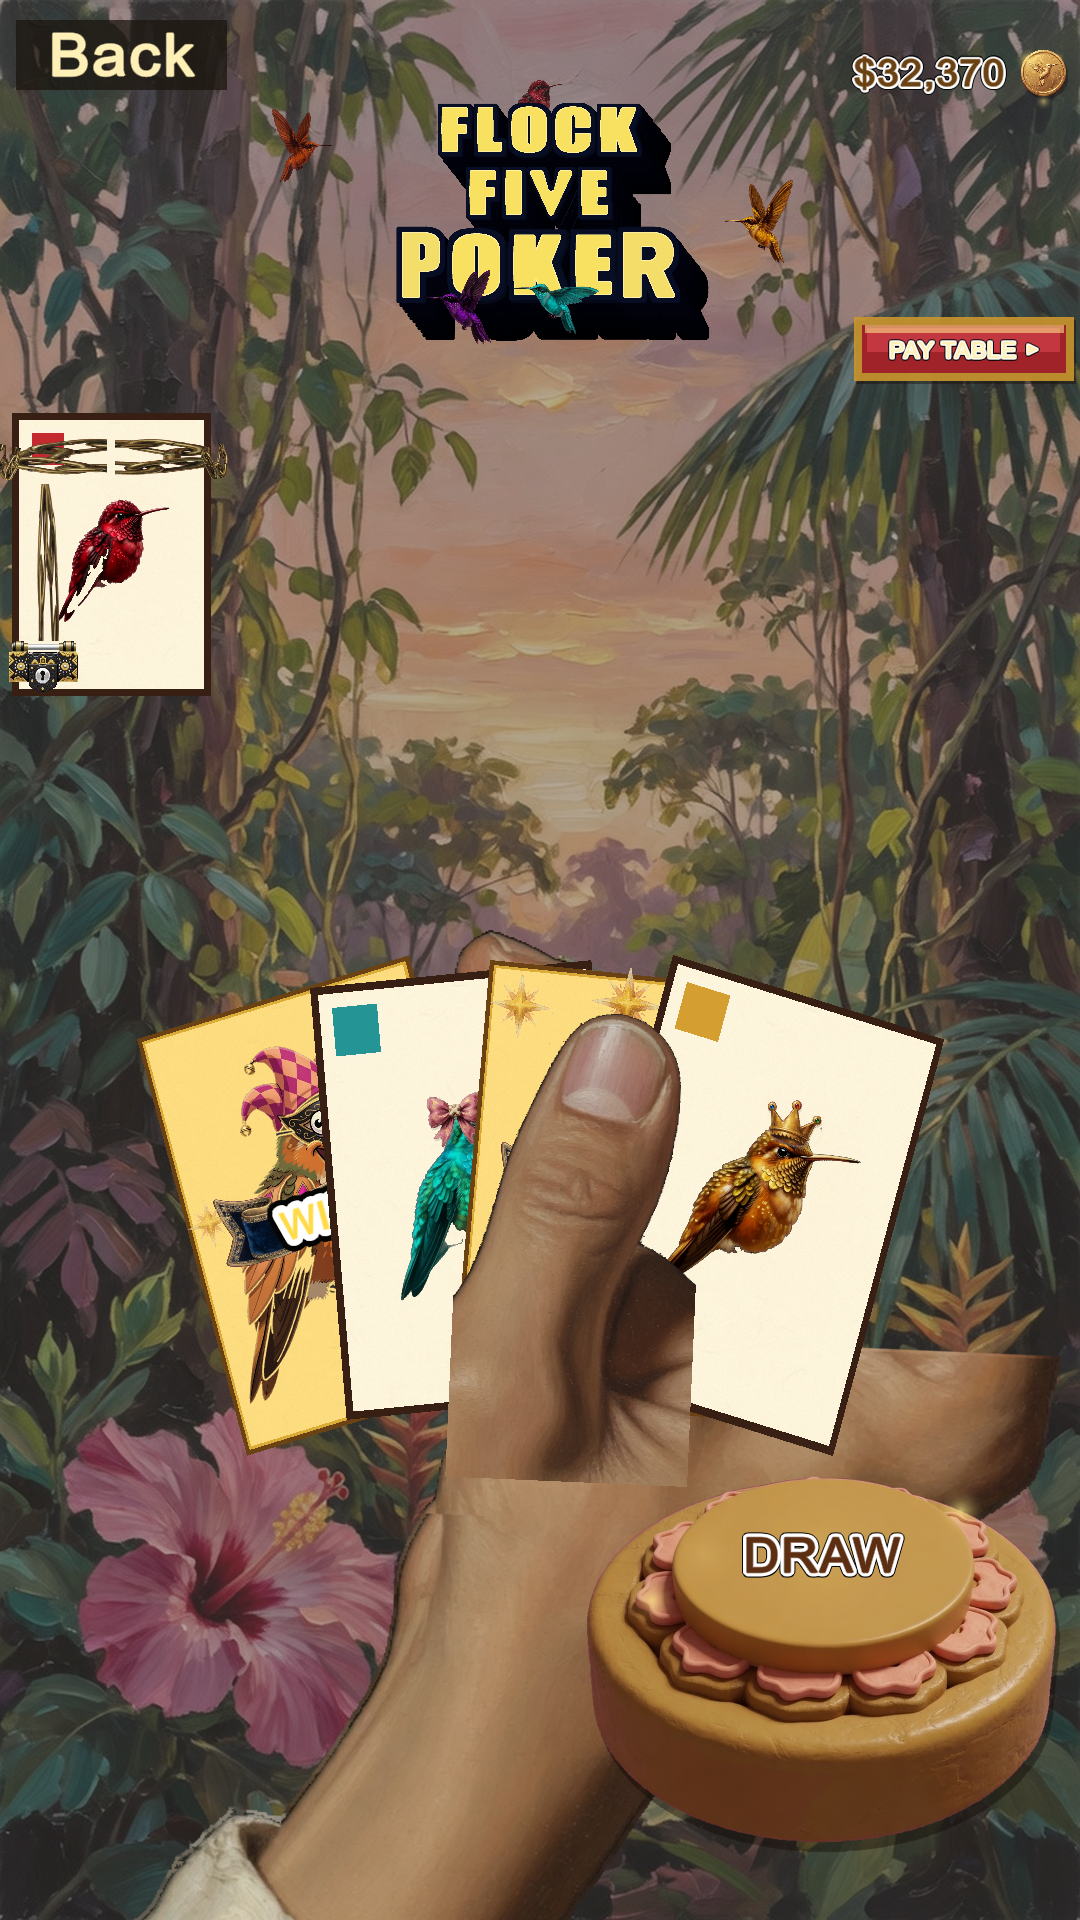
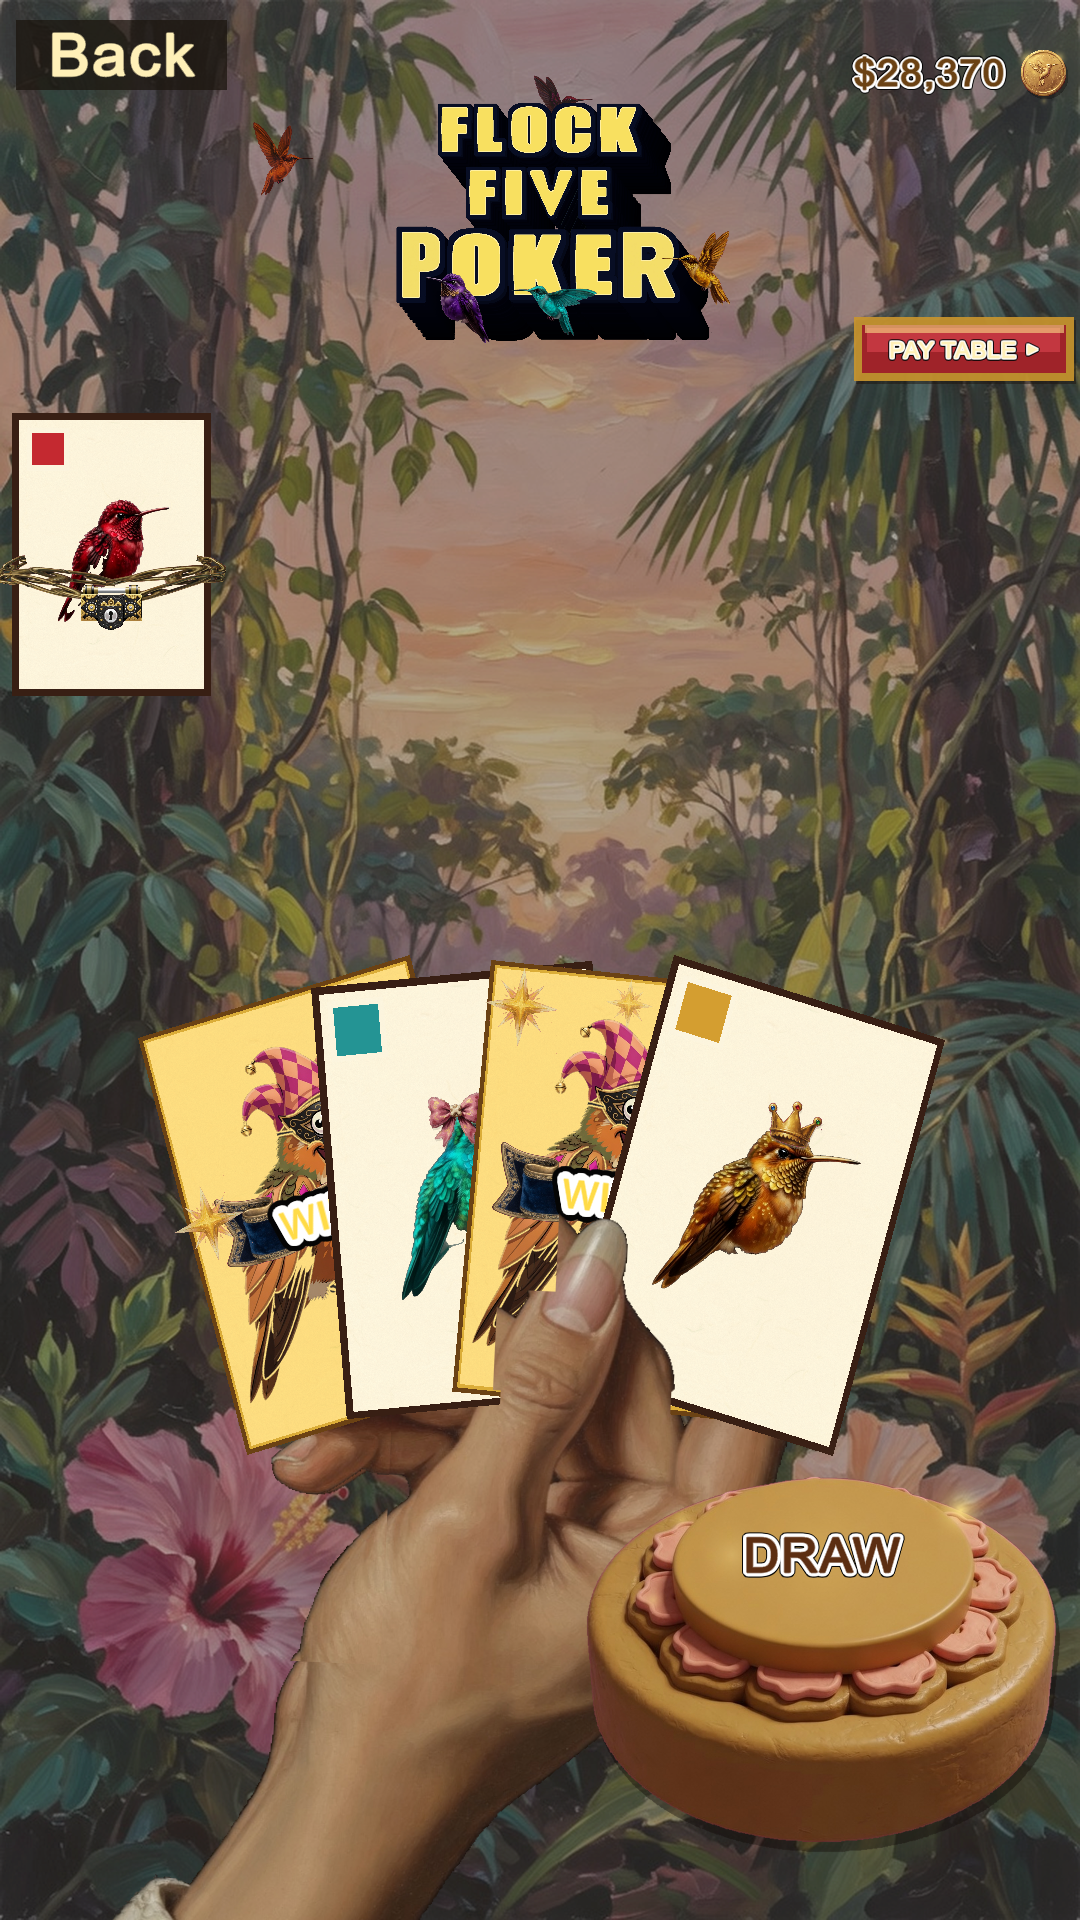
Poker: pass 15 — native thumb + belt-chain locks
Palm and pinching thumb are one continuous painting (same dest,
same pixels). Distal overlay is a same-paint cut so cards tuck
in without a restuck seam. Held-card chain wraps mid-low like a
belt on hips; the lock sits at center-front and sags the rail.

Playrun DONE 3/3, mid=0.

diff --git a/Assets/_Project/Scripts/App/FlockFiveApp.cs b/Assets/_Project/Scripts/App/FlockFiveApp.cs
@@ -1011,7 +1011,7 @@ namespace FlockFive
         {
             System.IO.Directory.CreateDirectory(dir);
             SpriteCatalog.DropPokerArt();
-            Debug.Log("Flock Five: ShotPokerFaces start " + dir + " pass14-longer-thumb");
+            Debug.Log("Flock Five: ShotPokerFaces start " + dir + " pass15-native-thumb");
             _home = HomeFace.Poker;
             _splash = true;
             _pokerPayOpen = false;
@@ -4897,8 +4897,9 @@ namespace FlockFive
         const float PokerFanScale = 1.42f;
         const float PokerFanSpan = 0.46f;
         // Constructed hand: palm + digits share this UV; thumb is pinch-anchored.
-        const float PokerFanPinchU = 0.423f;
-        const float PokerFanPinchV = 0.431f;
+        // Native thumb joint on the same canvas as the palm (image 31).
+        const float PokerFanPinchU = 0.586f;
+        const float PokerFanPinchV = 0.28f;
         const float PokerFanHandAspect = 0.80f;
 
         static float PokerAliveBreathe() => Mathf.Sin(Time.unscaledTime * 1.18f);
@@ -5458,11 +5459,8 @@ namespace FlockFive
             }
             else
             {
-                // Longer full digit: nail well up the fan, joint mid-card, thenar at pinch.
-                float th = fanH * 1.18f;
-                float tw = th * 0.51f;
-                var thumb = new Rect(pinchX - tw * 0.50f, pinchY - th * 0.82f, tw, th);
-                DrawSprite(thumb, SpriteCatalog.HandThumb, true);
+                // Distal thumb from the SAME paint as the palm, same dest — zero seam.
+                DrawSprite(new Rect(x, y, w, h), SpriteCatalog.HandThumb, true);
             }
             GUI.matrix = prev;
             GUI.color = Color.white;
@@ -5545,10 +5543,10 @@ namespace FlockFive
             if (!_pokerChained && _pokerChainBreak < 0f) return;
             var spr = SpriteCatalog.Chain;
             var tex = spr != null ? spr.texture : null;
-            float h = Mathf.Clamp(wrap.height * 0.16f, 20f * s, 34f * s);
-            float midY = wrap.y + wrap.height * 0.18f;
-            // End loops live behind the card; lock + inner links sit on the face.
-            var back = new Rect(wrap.center.x - wrap.width * 0.68f, midY - h * 0.40f, wrap.width * 1.36f, h * 0.80f);
+            float h = Mathf.Clamp(wrap.height * 0.11f, 16f * s, 28f * s);
+            // Belt: slightly below mid, like pants on hips.
+            float midY = wrap.y + wrap.height * 0.58f;
+            var back = new Rect(wrap.x - wrap.width * 0.10f, midY - h * 0.42f, wrap.width * 1.20f, h * 0.84f);
             var front = new Rect(wrap.x, midY - h * 0.50f, wrap.width, h);
             if (_pokerChainBreak < 0f)
             {
@@ -5606,6 +5604,10 @@ namespace FlockFive
 
         static void DrawChainAround(Texture tex, Rect card, Rect back, Rect front, bool behind)
         {
+            float beltH = front.height;
+            float hipY = front.center.y;
+            float sag = card.height * 0.075f;
+            float sagY = hipY + sag;
             if (tex == null)
             {
                 GUI.color = new Color(0.72f, 0.55f, 0.16f, behind ? 0.55f : 0.95f);
@@ -5615,52 +5617,49 @@ namespace FlockFive
             }
             if (behind)
             {
-                // End loops peek past the left/right edges from behind the card.
+                // Hip loops peek past the left/right edges from behind.
                 GUI.color = new Color(0.70f, 0.62f, 0.38f, 1f);
                 GUI.DrawTexture(back, tex, ScaleMode.ScaleToFit, true);
                 GUI.color = Color.white;
                 return;
             }
-            // High wrap — links only, skip the baked lock in the chain sheet.
             GUI.color = Color.white;
-            var wrapL = new Rect(front.x, front.y, front.width * 0.48f, front.height);
-            var wrapR = new Rect(front.xMax - front.width * 0.48f, front.y, front.width * 0.48f, front.height);
-            GUI.DrawTextureWithTexCoords(wrapL, tex, new Rect(0.02f, 0f, 0.16f, 1f));
-            GUI.DrawTextureWithTexCoords(wrapR, tex, new Rect(0.82f, 0f, 0.16f, 1f));
-            float sideH = front.height * 0.70f;
-            float sideW = front.height * 0.62f;
             var prev = GUI.matrix;
-            var left = new Rect(card.x - sideW * 0.48f, front.center.y - sideH * 0.50f, sideW, sideH);
-            GUIUtility.RotateAroundPivot(-78f, new Vector2(card.x, front.center.y));
-            GUI.DrawTextureWithTexCoords(left, tex, new Rect(0.02f, 0f, 0.16f, 1f));
+            float hipW = beltH * 0.72f;
+            float hipH = beltH * 0.95f;
+            // Side rails hug the card edges like a belt on hips.
+            var leftHip = new Rect(card.x - hipW * 0.42f, hipY - hipH * 0.50f, hipW, hipH);
+            GUIUtility.RotateAroundPivot(-12f, new Vector2(card.x, hipY));
+            GUI.DrawTextureWithTexCoords(leftHip, tex, new Rect(0.02f, 0f, 0.16f, 1f));
             GUI.matrix = prev;
-            var right = new Rect(card.xMax - sideW * 0.52f, front.center.y - sideH * 0.50f, sideW, sideH);
-            GUIUtility.RotateAroundPivot(78f, new Vector2(card.xMax, front.center.y));
-            GUI.DrawTextureWithTexCoords(right, tex, new Rect(0.82f, 0f, 0.16f, 1f));
+            var rightHip = new Rect(card.xMax - hipW * 0.58f, hipY - hipH * 0.50f, hipW, hipH);
+            GUIUtility.RotateAroundPivot(12f, new Vector2(card.xMax, hipY));
+            GUI.DrawTextureWithTexCoords(rightHip, tex, new Rect(0.82f, 0f, 0.16f, 1f));
             GUI.matrix = prev;
-            // Dangle left of center so the hang misses the WILD letters.
-            float lockH = Mathf.Clamp(card.height * 0.18f, front.height * 0.9f, card.height * 0.22f);
-            float lockY = card.yMax - lockH - card.height * 0.012f;
-            float hangTop = front.yMax - front.height * 0.12f;
-            float hangH = Mathf.Max(8f, lockY - hangTop);
-            float hangW = card.width * 0.16f;
-            float hangX = card.x + card.width * 0.16f;
-            var hang = new Rect(hangX - hangH * 0.5f, hangTop + hangH * 0.5f - hangW * 0.5f, hangH, hangW);
-            GUIUtility.RotateAroundPivot(90f, new Vector2(hangX, hangTop + hangH * 0.5f));
-            GUI.DrawTextureWithTexCoords(hang, tex, new Rect(0.02f, 0f, 0.16f, 1f));
+            // Front belt: two rails from each hip down to the sagged center.
+            float half = card.width * 0.52f;
+            float dipAng = Mathf.Atan2(sag, card.width * 0.50f) * Mathf.Rad2Deg;
+            var leftBelt = new Rect(card.x, hipY - beltH * 0.50f, half, beltH);
+            GUIUtility.RotateAroundPivot(dipAng, new Vector2(card.x, hipY));
+            GUI.DrawTextureWithTexCoords(leftBelt, tex, new Rect(0.02f, 0f, 0.18f, 1f));
             GUI.matrix = prev;
-            DrawPadlock(card, lockH, hangX);
+            var rightBelt = new Rect(card.xMax - half, hipY - beltH * 0.50f, half, beltH);
+            GUIUtility.RotateAroundPivot(-dipAng, new Vector2(card.xMax, hipY));
+            GUI.DrawTextureWithTexCoords(rightBelt, tex, new Rect(0.80f, 0f, 0.18f, 1f));
+            GUI.matrix = prev;
+            // Lock sits on the sagged front at card center.
+            float lockH = Mathf.Clamp(card.height * 0.16f, beltH * 1.05f, card.height * 0.20f);
+            DrawPadlock(card, lockH, card.center.x, sagY - lockH * 0.28f);
         }
 
-        static void DrawPadlock(Rect card, float chainH, float hangX = -1f)
+        static void DrawPadlock(Rect card, float chainH, float hangX = -1f, float hangY = -1f)
         {
             var spr = SpriteCatalog.Padlock;
             if (spr == null || spr.texture == null) return;
-            float lockH = Mathf.Clamp(card.height * 0.18f, chainH * 0.85f, card.height * 0.22f);
+            float lockH = Mathf.Clamp(card.height * 0.16f, chainH * 0.85f, card.height * 0.20f);
             float lockW = lockH * 1.38f;
-            // Dangle: lock body toward the bottom edge, below the wild ribbon.
-            float y = card.yMax - lockH - card.height * 0.012f;
-            float x = hangX >= 0f ? hangX : card.x + card.width * 0.16f;
+            float x = hangX >= 0f ? hangX : card.center.x;
+            float y = hangY >= 0f ? hangY : card.y + card.height * 0.58f - lockH * 0.25f;
             var lr = new Rect(x - lockW * 0.5f, y, lockW, lockH);
             DrawSprite(lr, spr, true);
         }
